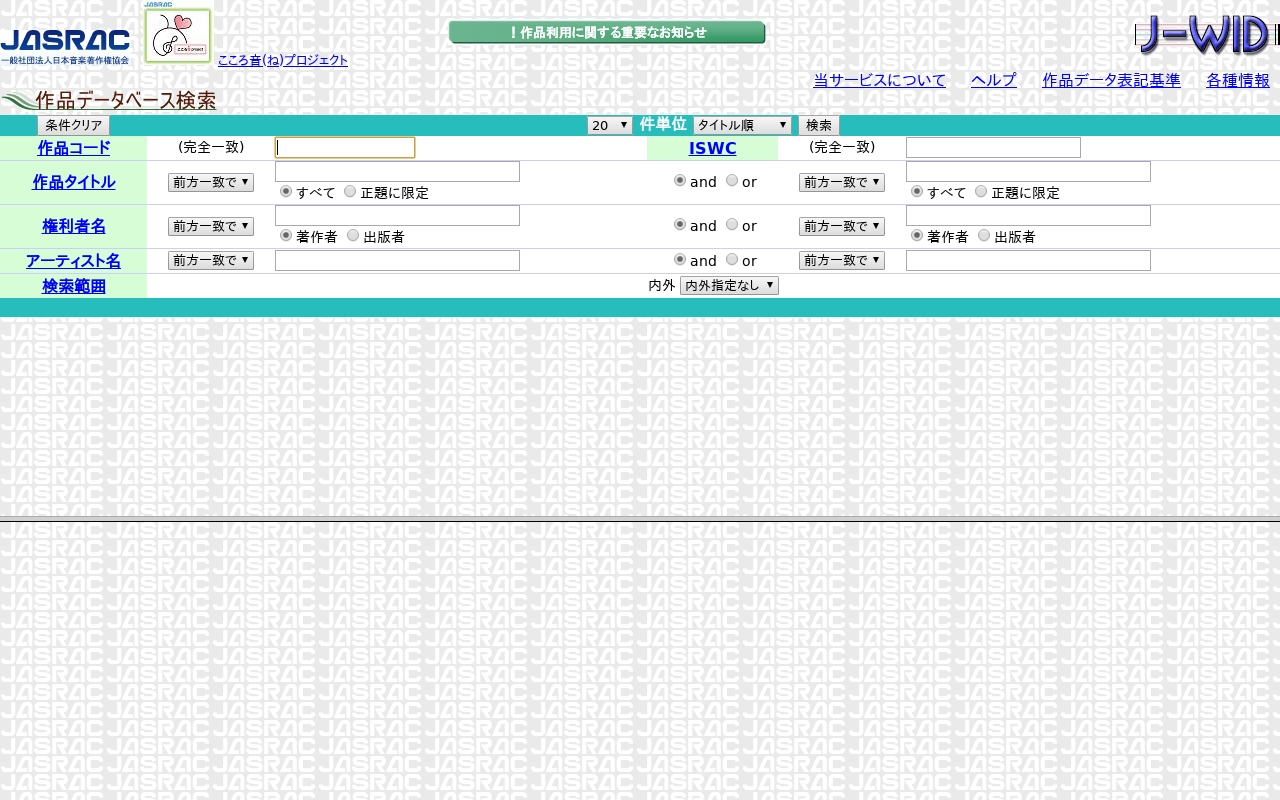
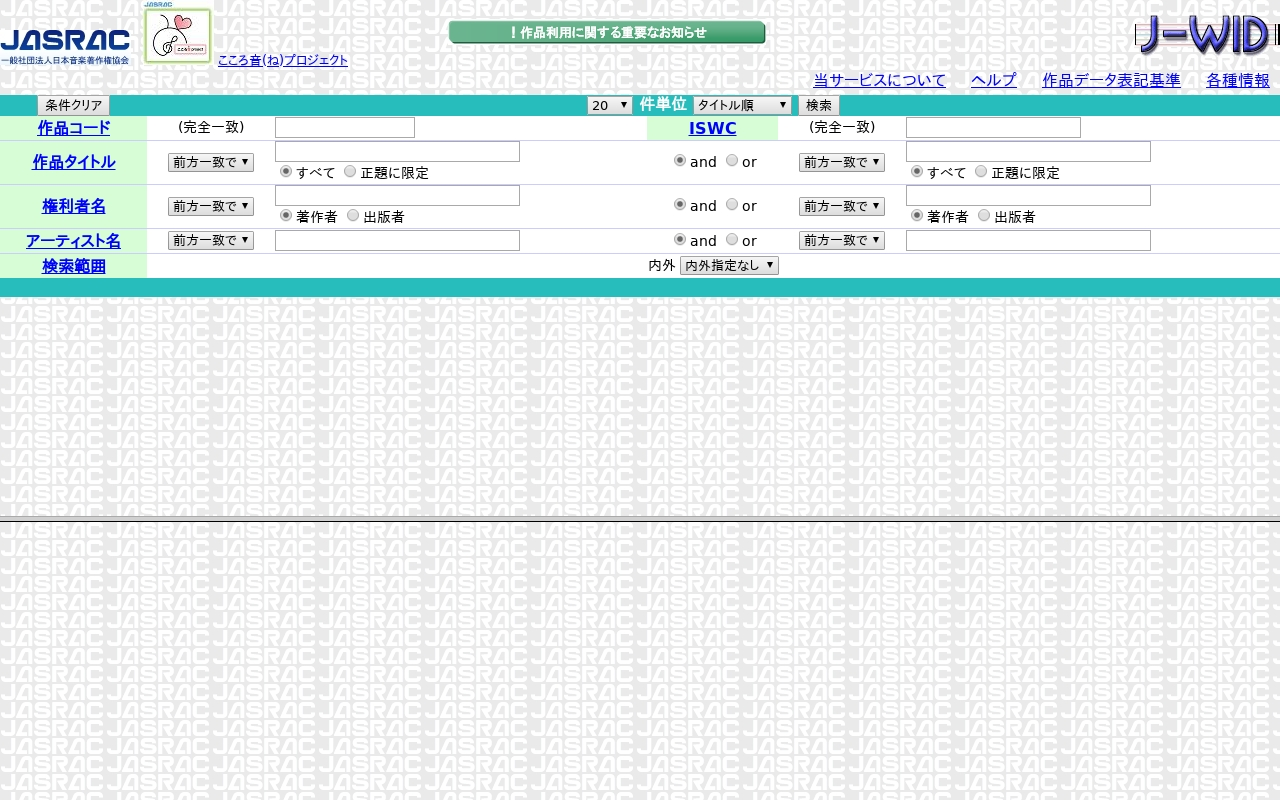
03/08/19

Changed region(s): [[0.0, 0.0938, 1.0, 0.4062]]

diff --git a/js/jsp.js b/js/jsp.js
@@ -1,0 +1,67 @@
+const key="jsp"
+const key2="inp"
+//const key=require ("./key")
+const puppeteer = require('puppeteer');
+
+async function main() {
+const browser = await puppeteer.launch({args: ['--no-sandbox']} );
+const page = await browser.newPage();
+    //const url="https://www.ascap.com/repertory"
+    //const url="http://www2.jasrac.or.jp/eJwid"
+    const url="http://www2.jasrac.or.jp/eJwid"
+
+await page.setViewport({ width: 1280, height: 800 })
+await page.goto(url);
+console.log(page.url())
+console.log("goto")
+
+const inp= await page.$('input[name=input]');
+await inp.click();
+console.log("clicked!")
+
+await page.waitForNavigation({timeout: 60000, waitUntil: "domcontentloaded"});
+console.log("waited for nav")
+await page.waitFor(1500);
+console.log(page.url())
+
+const frame=page.frames();
+console.log(frame.length)
+
+for(var i=0;i<frame.length;i++){
+if(frame[i].name()==="frame2"){
+console.log(frame[i].name())
+}
+}
+console.log(frame[1].name())
+
+const hint="東京ムービー企画部"
+await frame[1].waitForSelector("input[name=IN_KEN_NAME1]")
+await frame[1].focus("input[name=IN_KEN_NAME1]")
+await frame[1].type("input[name=IN_KEN_NAME1]",hint)
+
+//const sub= await frame[1].$('input[name=CMD_SEARCH]');
+//await frame[1].click('input[type=submit]');
+
+console.log("cli")
+//await page.waitForNavigation({timeout: 60000, waitUntil: "domcontentloaded"});
+// const form = await frame[1].$('input[name=RESULT_CURRENT_PAGE]');
+// await form.evaluate(form => form.submit());
+
+const url3="http://www2.jasrac.or.jp/eJwid/main.jsp?trxID=A00401-3"
+
+//console.log(frame[2])
+const tar=await browser.targets()
+console.log(tar.length)
+for (var i=0;i<4;i++){
+console.log(tar[i].url())
+}
+
+
+await page.screenshot({type:"jpeg",quality:100,path: 'img/'+key+'.jpg',fullPage:true});
+
+await browser.close();
+
+};
+
+main();
+

diff --git a/js/ace.js b/js/ace.js
@@ -1,0 +1,53 @@
+const key="ace"
+const key2="inp"
+//const key=require ("./key")
+const puppeteer = require('puppeteer');
+
+async function main() {
+const browser = await puppeteer.launch({args: ['--no-sandbox']} );
+const page = await browser.newPage();
+    //const url="https://www.ascap.com/repertory"
+    //const url="http://www2.jasrac.or.jp/eJwid"
+    const url="http://www2.jasrac.or.jp/eJwid/main.jsp?trxID=A00401-2"
+
+await page.setViewport({ width: 1280, height: 800 })
+await page.goto(url);
+console.log(page.url())
+
+const scr= await page.evaluate(() => {
+    const dls= [];
+    const nls= document.querySelectorAll("input[id=search-input]");
+return nls
+
+});
+console.log(scr[0])
+const arr=Object.entries(scr[0])
+console.log(arr[0][1].events.click[0])
+
+
+// let itemSelector="some selecter > ul > li:nth-child(1) > a";
+//   let listSelector="some selecter > ul > li > a";
+// var data = await page.evaluate((selector) => {
+//     return document.querySelector(selector).textContent;
+//   }, itemSelector);
+// console.log(data)
+
+// const inputElement = await page.$('input[name=input]');
+// await inputElement.click();
+// console.log("cli")
+
+// await page.waitForNavigation({timeout: 60000, waitUntil: "domcontentloaded"});
+// console.log("waited for nav")
+await page.waitFor(1500);
+await page.$$("input")
+console.log("input")
+
+
+await page.screenshot({type:"jpeg",quality:100,path: 'img/'+key+'.jpg',fullPage:true});
+
+await browser.close();
+
+};
+
+main();
+

diff --git a/js/img.js b/js/img.js
@@ -1,0 +1,42 @@
+const puppeteer = require('puppeteer');
+const key="img"
+//const browser = await puppeteer.launch({args: ['--no-sandbox']} );
+puppeteer.launch({args: ['--no-sandbox']}).then(
+    async browser => {
+  const page = await browser.newPage();
+
+        //let url="https://node.minbit.net/type-bro"
+        //let url="http://www2.jasrac.or.jp/eJwid"
+let url="http://www2.jasrac.or.jp/eJwid"
+
+// console.log("goto")
+// await page.evaluate(() => {
+//   fetch("/main.jsp?trxID=F00100", {
+//     method: "POST",
+//   });
+// });
+
+        await page.setRequestInterception(true);
+page.on('request', request => {
+  const overrides = {};
+  if (request.url === url) {
+    overrides.method = 'POST';
+    overrides.postData = "/main.jsp?trxID=F00100";
+  }
+  request.continue(overrides);
+});
+
+await page.goto(url);
+console.log("goto")
+await page.waitForNavigation({timeout: 60000, waitUntil: "domcontentloaded"});
+console.log("waited for nav")
+
+// await page.waitFor(1500)
+// console.log("wait for ")
+// await page.waitForSelector('img')
+// console.log("sel")
+
+await page.screenshot({type:"jpeg",quality:100,path: 'img/'+key+'.jpg',fullPage:true});
+
+  await browser.close();
+});

diff --git a/htm/jas.htm b/htm/jas.htm
@@ -1,0 +1,13 @@
+[error]                   \   󂠂        B G   [         ܂    B
+
+
+   Ǘ  ҂ւ  A   ̍ۂ́A   L   b Z [ W     `           B
+
+   G   [   b Z [ W
+ ڑ    ؒf           B ēx A           炨 肢 v   ܂  B
+━━━━━━━━━━━━━━━━━━━━━━━━━━━━━━━━━━━━━━━━━━━━━━━━━━━━━━━━━━━━━━━━━━━━━━━━━━━━━━━
+[1]   i f [ ^ x [ X     T [ r X  
+
+References:
+
+[1] http://www2.jasrac.or.jp/eJwid/

diff --git a/js/doc.js b/js/doc.js
@@ -1,0 +1,1 @@
+document.querySelector()
